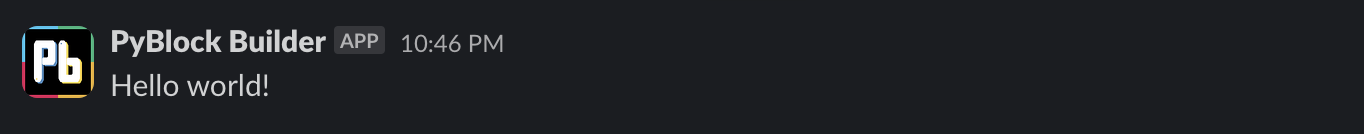
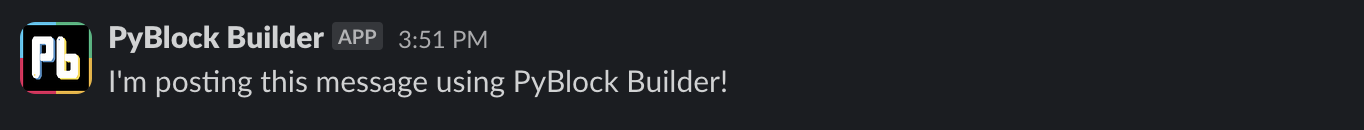
Updated README.md

Changed region(s): [[0.0, 0.1538, 0.5543, 0.7385]]

diff --git a/README.md b/README.md
@@ -135,15 +135,12 @@ painless as possible.
     from pyblock_builder.surfaces import Message
   
     (Message()
-     .set_text("Hello world!") # main body text of the message
+     .set_text("I'm posting this message with PyBlock Builder!") # main body text of the message
      .set_channel("C12345") # ID of the channel for posting or user ID for DM
     )
     ```
 
   ###### *Note that the `()` wrapping the code constructing the instance of the `Message` object is required by PyCharm and other IDEs to ensure proper indentation for method chaining and serves no functional purpose in **PyBlock Builder**.
-
-    Output:
-    ![message_screenshot_1.png](docs/resources/images/message_screenshot_1.png)
 
     A more complex message may, of course, include—you guessed it!—blocks!`. 
     ```python
@@ -179,8 +176,6 @@ painless as possible.
      .set_channel("C12345") # ID of the channel for posting or user ID for DM
     )
     ```
-    Output:
-    ![message_screenshot_1.png](docs/resources/images/message_screenshot_2.png)
 - #### Posting and Scheduling Messages
   
   While the above examples show how simple and intuitive it is to construct a message using **PyBlock Builder**,
@@ -209,9 +204,11 @@ painless as possible.
   if __name__ == "__main__":
     SocketModeHandler(app, os.environ["SLACK_APP_TOKEN"]).start()
   ```
-  As demonstrated above, posting a messsage with **PyBlock Builder** is as simple as passing the `WebClient` provided to
+  Output:
+![message_screenshot_1](docs/resources/images/message_screenshot_1.png)
+  As demonstrated above, posting our first messsage example from above with **PyBlock Builder** is as simple as passing the `WebClient` provided to
   your Bolt app as `app.client` to the `post()` method of the `Message` object. **PyBlock Builder** takes care of the 
-  rest for you! Scheduling a message to be sent at a certain time can be similarly accomplished as shown below:
+  rest for you! Now, let's try scheduling our more complex message example to be sent at a certain time:
   ```python
   # Simple demonstration of how to schedule a message with Slack's Bolt for Python SDK and PyBlock Builder
   import os
@@ -223,22 +220,52 @@ painless as possible.
   # Initializes your app with your bot token and socket mode handler
   app = App(token=os.environ.get("SLACK_BOT_TOKEN"))
 
+  # Create a datetime object representing the date and time for posting
   when_to_post = datetime(2023, 12, 25, 9, 00)
   
+  from pyblock_builder.surfaces import Message
+  from pyblock_builder.blocks import Section, Divider, Actions
+  from pyblock_builder.elements import Button
+  from pyblock_builder import mrkdwn as md
+  
   (Message()
-    .set_text("This is a scheduled message using PyBlock Builder!") # main body text of the message
-    .set_channel("C12345") # ID of the channel for posting or user ID for DM
-    .post_at(when_to_post)
-    .post(app.client)
+   .add_blocks(
+      Section()
+      .set_text(f"Johnny, what can you make out of this? {md.emoji('airplane')}"),
+      Divider(),
+      Actions()
+      .add_elements(
+          Button()
+          .set_label(f"{md.emoji('tophat')} Hat")
+          .set_value("hat-button")
+          .set_action_id("hat_button_pressed")
+          .set_style("primary"), # colors a button green
+          Button()
+          .set_label(f"{md.emoji('gem')} Broach")
+          .set_value("broach-button")
+          .set_action_id("broach_button_pressed")
+          .danger(), # colors a button red; alternative to using set_style("danger")
+          Button()
+          .set_label(f"{md.emoji('lizard')} Pterodactyl")
+          .set_value("pterodactyl-button")
+          .set_action_id("pterodactyl_button_pressed"),
+      )
+   )
+   .set_text("Johnny, what can you make of this?") # when blocks are used this becomes a fallback string for display in notifcations
+   .set_channel("C12345") # ID of the channel for posting or user ID for DM
+   .post_at(when_to_post)
+   .post(app.client)
   )
   
   # Start your app
   if __name__ == "__main__":
     SocketModeHandler(app, os.environ["SLACK_APP_TOKEN"]).start()
   ```
+  Output:
+![message_screenshot_2](docs/resources/images/message_screenshot_2.png)
   That's it! Scheduling messages is as easy as using the `post_at()` method to set the date and time you wish your app to
-  send the message at. For even more convenience, `post_at()` accepts values in the form of a UNIX timestamp as a string
-  or as a Python `datetime` object as shown above.
+  send the message before calling the `post()` method. For even more convenience, `post_at()` accepts values in the form 
+  of a UNIX timestamp as a string or as a Python `datetime` object as shown above.
 - #### Updating and Deleting Messages
   Posting and scheduling messages is great, but what if you want to want to update or delete a message that your app has
   already sent? Fear not! **PyBlock Builder** has you covered!
